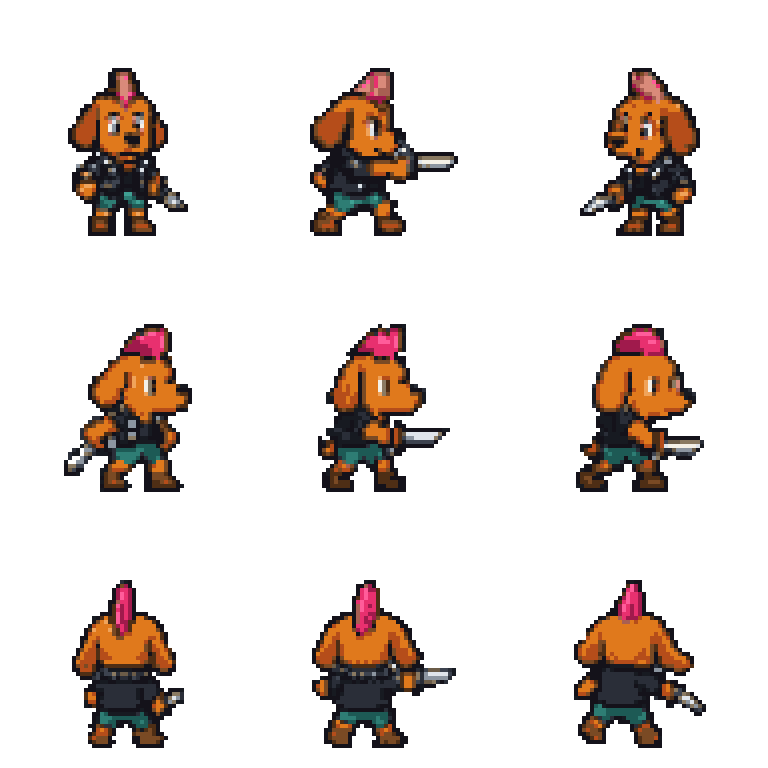
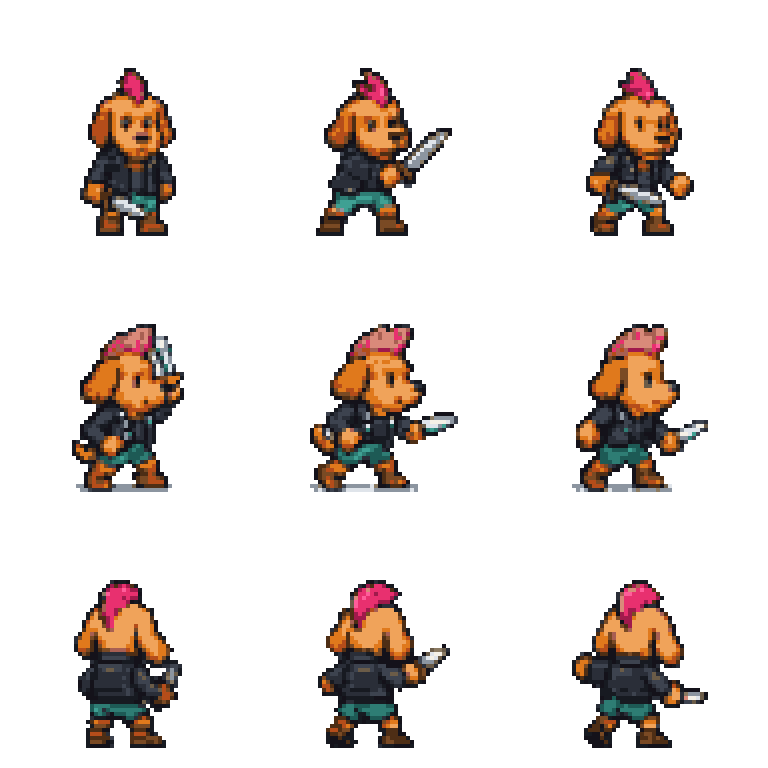
Dog Punk: Beverly stops changing colour when she attacks
She was one shade darker for the whole swing. Measured off the files the
browser actually downloads, before and after:

                    down      side      up
    walk (live)   #f0a35a   #e0791c   #f0a35a
    attack (live) #e0791c   #e0791c   #e0791c     <- every frame darker
    attack (now)  #f0a35a   #e0791c   #f0a35a     <- matches walk exactly

The attack sheet was the one piece of Beverly the colour-matching pass never
regenerated — it said so at the bottom of its own reply, having run out of
generations, and the thing that never got fixed is exactly the thing that kept
being visible. Regenerated all three attack rows against the per-material hex
in art-style.json and rebuilt the sheet from them.

The side rows read as more shaded in both sheets (mid-tone 10.7% vs 3.3% on
the front), which is a profile showing more of her shadowed flank, not a
second colour: base gold is present at 10-15% in every row of both sheets.

Her ears come back golden rather than boot-brown, and the jacket keeps its
sleeves, which are the two details the art contract gained earlier today.

Still not right, and not a regression — the mohawk reads flat in attack
frames, closer to a cap than the tall crest of the walk art. The previous
attack sheet had the same fault. It needs the prompt fixing rather than
another reroll, so it is not folded in here.

Verified: sheet passes verify_sheet.py, smoke test clean, cache bumped to v26.

diff --git a/games/dog-punk/sw.js b/games/dog-punk/sw.js
@@ -1,6 +1,6 @@
 importScripts("../../shared/sw-core.js");
 
-GCRegisterServiceWorker("dog-punk-v25", [
+GCRegisterServiceWorker("dog-punk-v26", [
   "./",
   "./index.html",
   "./style.css",
